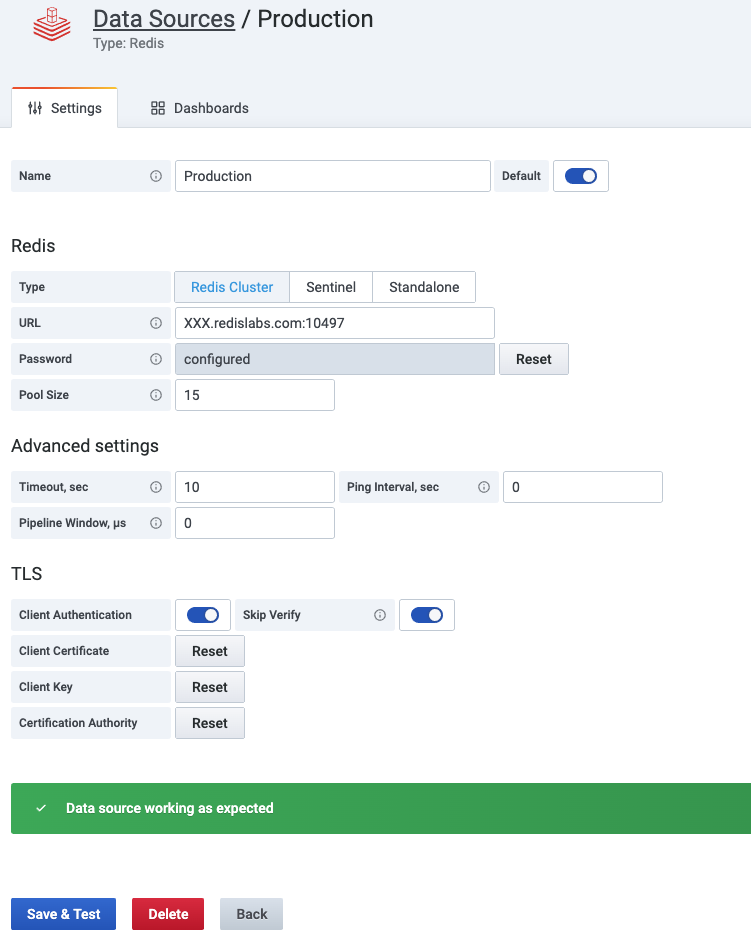
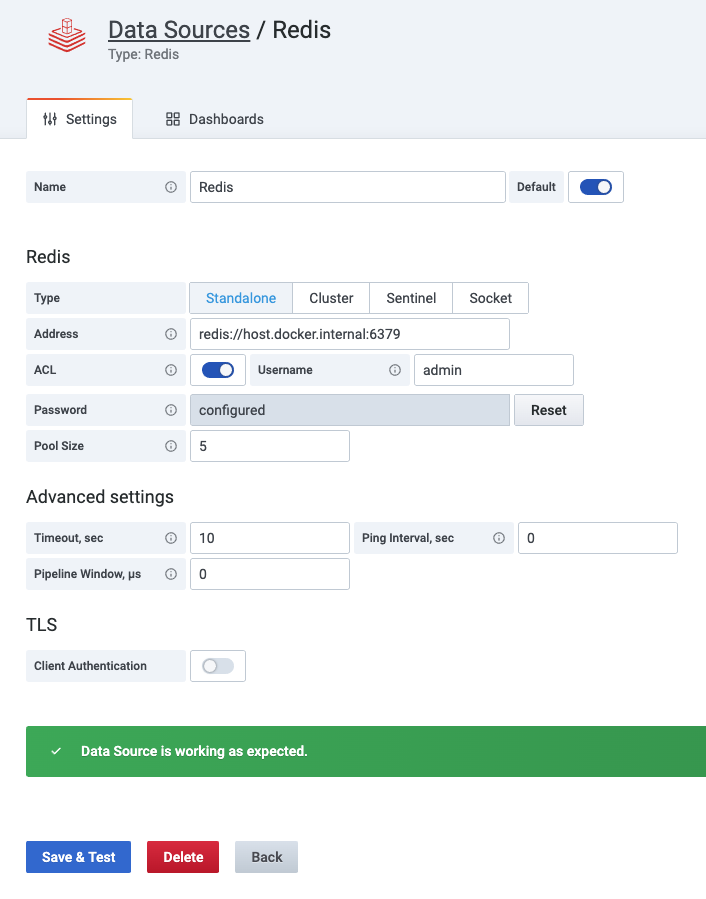
Support Redis 6 ACL authentication (#60)
* Add Redis 6 ACL authentication

* Move ACL before the password

* Update Data Source screenshot

diff --git a/src/components/ConfigEditor.tsx b/src/components/ConfigEditor.tsx
@@ -220,6 +220,32 @@ export class ConfigEditor extends PureComponent<Props, State> {
         </div>
 
         <div className="gf-form">
+          <Switch
+            label="ACL"
+            labelClass="width-10"
+            tooltip="Allows certain connections to be limited in terms of the commands that can be executed and the keys that can be accessed"
+            checked={jsonData.acl || false}
+            onChange={(event) => {
+              const jsonData = { ...options.jsonData, acl: event.currentTarget.checked };
+              onOptionsChange({ ...options, jsonData });
+            }}
+          />
+
+          {jsonData.acl && (
+            <FormField
+              label="Username"
+              labelWidth={10}
+              inputWidth={10}
+              value={jsonData.user}
+              tooltip="Provide ACL Username to authenticate."
+              onChange={(event: ChangeEvent<HTMLInputElement>) => {
+                onOptionsChange({ ...options, jsonData: { ...options.jsonData, user: event.target.value } });
+              }}
+            />
+          )}
+        </div>
+
+        <div className="gf-form">
           <SecretFormField
             isConfigured={(secureJsonFields && secureJsonFields.password) as boolean}
             value={secureJsonData.password || ''}

diff --git a/src/types.ts b/src/types.ts
@@ -59,6 +59,20 @@ export interface RedisDataSourceOptions extends DataSourceJsonData {
    * @type {string}
    */
   sentinelName: string;
+
+  /**
+   * ACL enabled
+   *
+   * @type {boolean}
+   */
+  acl: boolean;
+
+  /**
+   * ACL Username
+   *
+   * @type {string}
+   */
+  user: string;
 }
 
 /**
@@ -108,8 +122,8 @@ export enum ClientTypeValue {
  * Client Types
  */
 export const ClientType = [
-  { label: 'Redis Cluster', value: ClientTypeValue.CLUSTER },
+  { label: 'Standalone', value: ClientTypeValue.STANDALONE },
+  { label: 'Cluster', value: ClientTypeValue.CLUSTER },
   { label: 'Sentinel', value: ClientTypeValue.SENTINEL },
   { label: 'Socket', value: ClientTypeValue.SOCKET },
-  { label: 'Standalone', value: ClientTypeValue.STANDALONE },
 ];

diff --git a/pkg/datasource.go b/pkg/datasource.go
@@ -68,7 +68,7 @@ func (ds *redisDatasource) QueryData(ctx context.Context, req *backend.QueryData
  */
 func (ds *redisDatasource) CheckHealth(ctx context.Context, req *backend.CheckHealthRequest) (*backend.CheckHealthResult, error) {
 	var status backend.HealthStatus
-	message := "Data source health is yet to become known"
+	message := "Data Source health is yet to become known."
 
 	// Get Instance
 	client, err := ds.getInstance(req.PluginContext)
@@ -85,7 +85,7 @@ func (ds *redisDatasource) CheckHealth(ctx context.Context, req *backend.CheckHe
 			message = fmt.Sprintf("PING command failed: %s", err.Error())
 		} else {
 			status = backend.HealthStatusOk
-			message = "Data source working as expected"
+			message = "Data Source is working as expected."
 		}
 	}
 
@@ -152,9 +152,14 @@ func newDataSourceInstance(setting backend.DataSourceInstanceSettings) (instance
 	connFunc := func(network, addr string) (radix.Conn, error) {
 		opts := []radix.DialOpt{radix.DialTimeout(time.Duration(timeout) * time.Second)}
 
-		// Add Password
+		// Authentication
 		if secureData != nil && secureData["password"] != "" {
-			opts = append(opts, radix.DialAuthPass(secureData["password"]))
+			// If ACL enabled
+			if jsonData.ACL {
+				opts = append(opts, radix.DialAuthUser(jsonData.User, secureData["password"]))
+			} else {
+				opts = append(opts, radix.DialAuthPass(secureData["password"]))
+			}
 		}
 
 		// TLS Authentication

diff --git a/pkg/types.go b/pkg/types.go
@@ -37,6 +37,8 @@ type dataModel struct {
 	TLSSkipVerify  bool   `json:"tlsSkipVerify"`
 	Client         string `json:"client"`
 	SentinelName   string `json:"sentinelName"`
+	ACL            bool   `json:"acl"`
+	User           string `json:"user"`
 }
 
 /*
